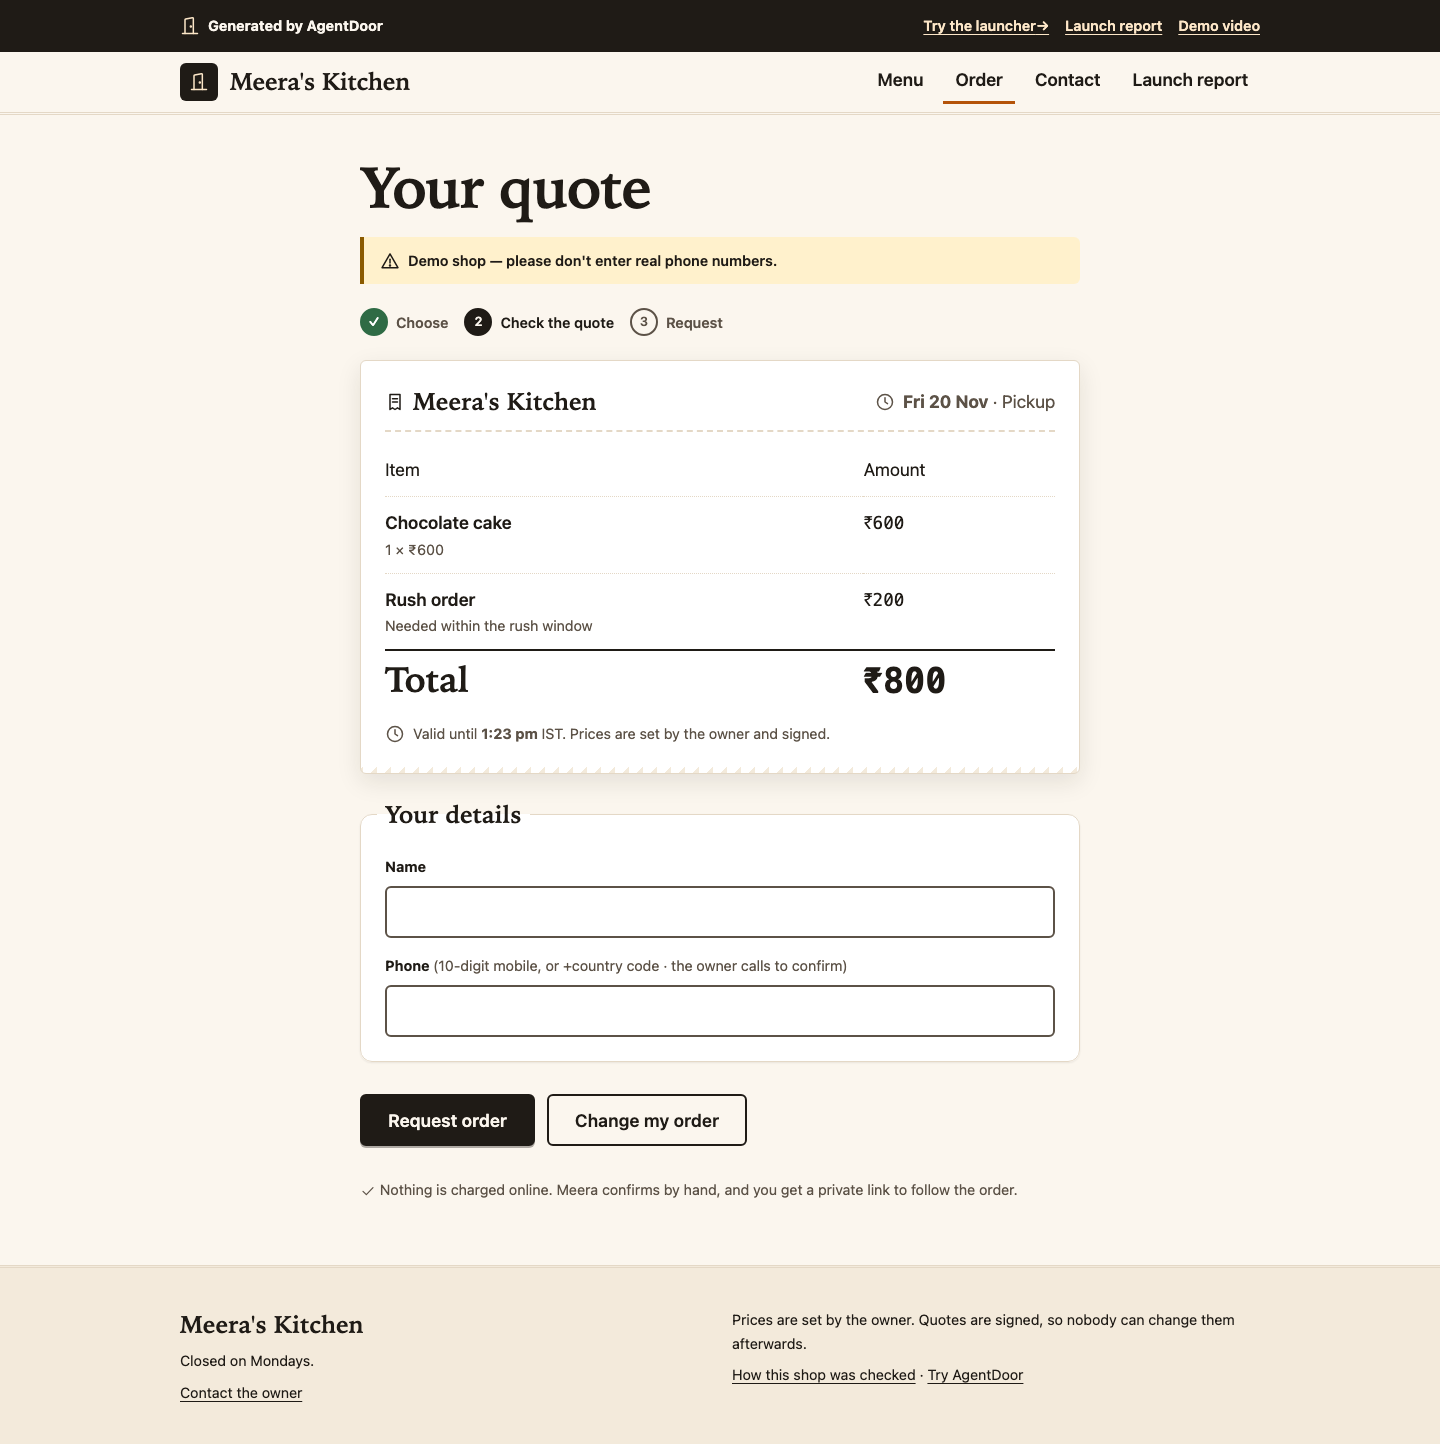
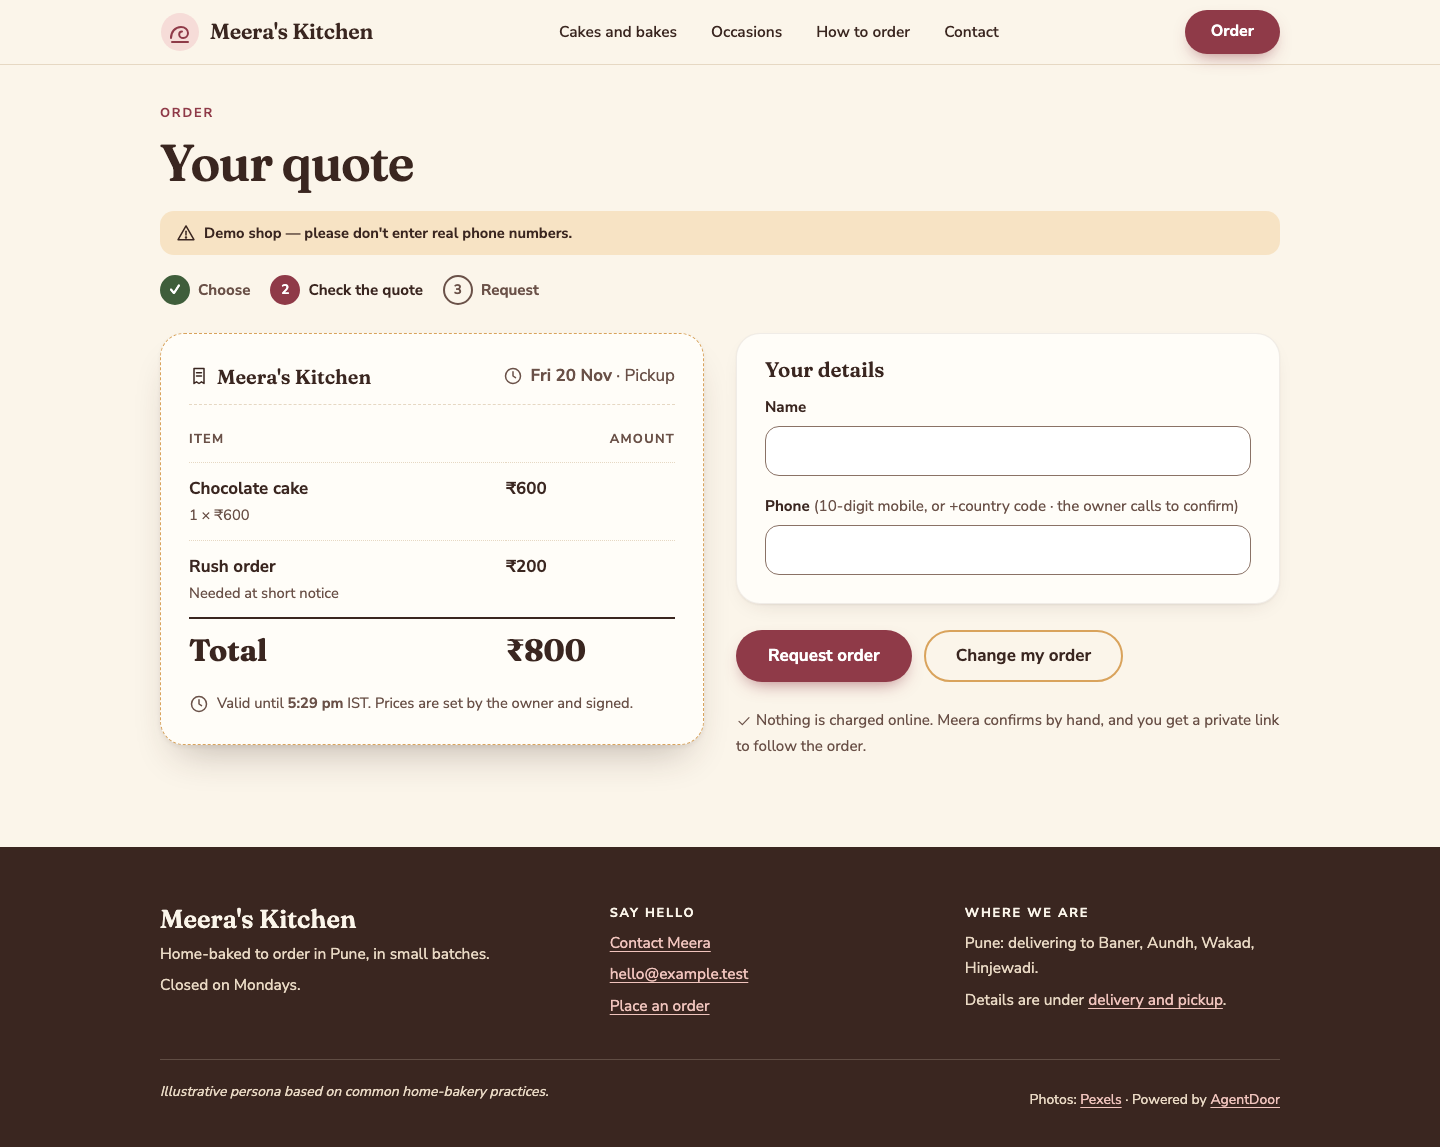
docs: refresh shop screenshots for the redesign and update status

diff --git a/STATUS.md b/STATUS.md
@@ -6,7 +6,7 @@ Keep this under ~150 lines. Newest entries on top within each section. Each task
 - Phase: **SUBMISSION PREPARATION** (19 Nov 2026). The real Hinglish launch bundle (Meera's Kitchen, illustrative persona) is live on https://agentdoor.shop and the shop UI is styled.
 - Remaining: demo video, GitHub repository, submission.
 - Deadline: the public challenge page lists the submission time as 20 Nov 2026, 11:59 PM IST. Aim to submit well before it.
-- Tests: 464 unit and integration, 54 end-to-end, all passing. Public documents were reconciled with the live site on 19 Nov (see Review findings, R4).
+- Tests: 482 unit and integration, 59 end-to-end, all passing. Public documents were reconciled with the live site on 19 Nov (see Review findings, R4).
 - Reviews done: **R2** (three-reviewer shop review) and **R4** (judge-style submission audit). No further reviews planned.
 
 ## Platform facts (public-safe; account details live in private account notes)
@@ -72,6 +72,9 @@ Summary: 18 ticked, 0 live-check, 1 n/a (SEC-18). Nothing needed a live command.
 
 ## Task log
 <!-- T## — date — result (done/blocked) — key decisions — open issues — next -->
+- T14a — 2026-11-19 — **done (NOT deployed)** — premium redesign in two looks, same app. Bakery (`/`, `/order`, quote, status, contact, 404): `bakery.css`, Fraunces + Nunito Sans, ten sections, ten licensed photos, no ribbon or platform links, footer "Photos: Pexels" and "Powered by AgentDoor" -> `/launch`. AgentDoor (`/launch` new, `/try/*`, `/launch-report`): `agentdoor*.css` (ink/indigo/lime), figures from the recorded session. Owner pages keep the original chrome (`chrome: "owner"`); `shop.css` now holds only that.
+  Decisions: (1) `/order?item=<id>` already had a strict catalog allow-list, so cards link to it. (2) Date `min` = engine's earliest day (`earliestDate`), so e2e refusal tests lift `min` to prove the server still refuses. (3) Order summary shows items, day and how, never a price; prices come only from the quote result. (4) `/launch` first-run number = `liveRunFigures` of recorded v1 (same as the report). (5) Per-page CSS: bakery 30 KB; `/launch` and `/try` about 36 KB with `ui.css`. (6) Font fetch failures are ignored by the e2e console watcher (offline machines).
+  Tests: 482 unit/integration, 59 e2e (axe zero serious/critical), `tsc` clean. Screenshots `docs/screens/v2-{home,order,order-form,launch,try}-{1440,375}.png`. Open: `views/try.ts` is still over 300 lines (pre-existing). Next: deploy (owner), demo video.
 - T13a — 2026-11-19 — **done (launch half; NOT deployed)** — `scripts/launch-demo.ts` (`npx tsx scripts/launch-demo.ts [--replay|--fresh]`) drives the launcher routes in-process on a free 127.0.0.1 port with the real ClaudeClient in record mode (live, fixtures kept in `.agentdoor/launch-fixtures`, fixtureKey `meera-launch`, guard $1.50). Persona: "Meera's Kitchen", illustrative persona based on common home-bakery practices, not a real customer. Real bundle written: `bundle/{policy,launch-record}.json`, `bundle/try/session.json` (gitignored).
   Live spend $0.1496 for 3 Claude calls (compile r0 $0.0687, compile r1 $0.0468, scenarios $0.0341; Sonnet 5.5; ≈20.0k in / 11.9k out tokens). Gaps: 12 critical before -> 0 after. Final bundle was produced by `--replay` of those recordings ($0, usage rows relabelled to the new session) because the first live pass stopped at the fix step (script bug, no extra calls).
   Decisions: (1) Claude asked exactly the 3 omitted-rule questions and nothing else; the flow needs ≥1 answer, so capacity got "not sure yet" and the other two stayed unanswered. (2) Rush cap came out as template default 3 with no RUSH_UNBOUNDED card, so the script (owner) types 2 via `commitVersion`; capacity 10 and unlisted REFUSE use the typed fix routes. (3) 5 scenario gaps (date artefacts: Monday landing, 48h lead, same-day) were dismissed as "that is fine"; they are listed in the script log. recordedAt is the replay time (same day). No app code changed.
